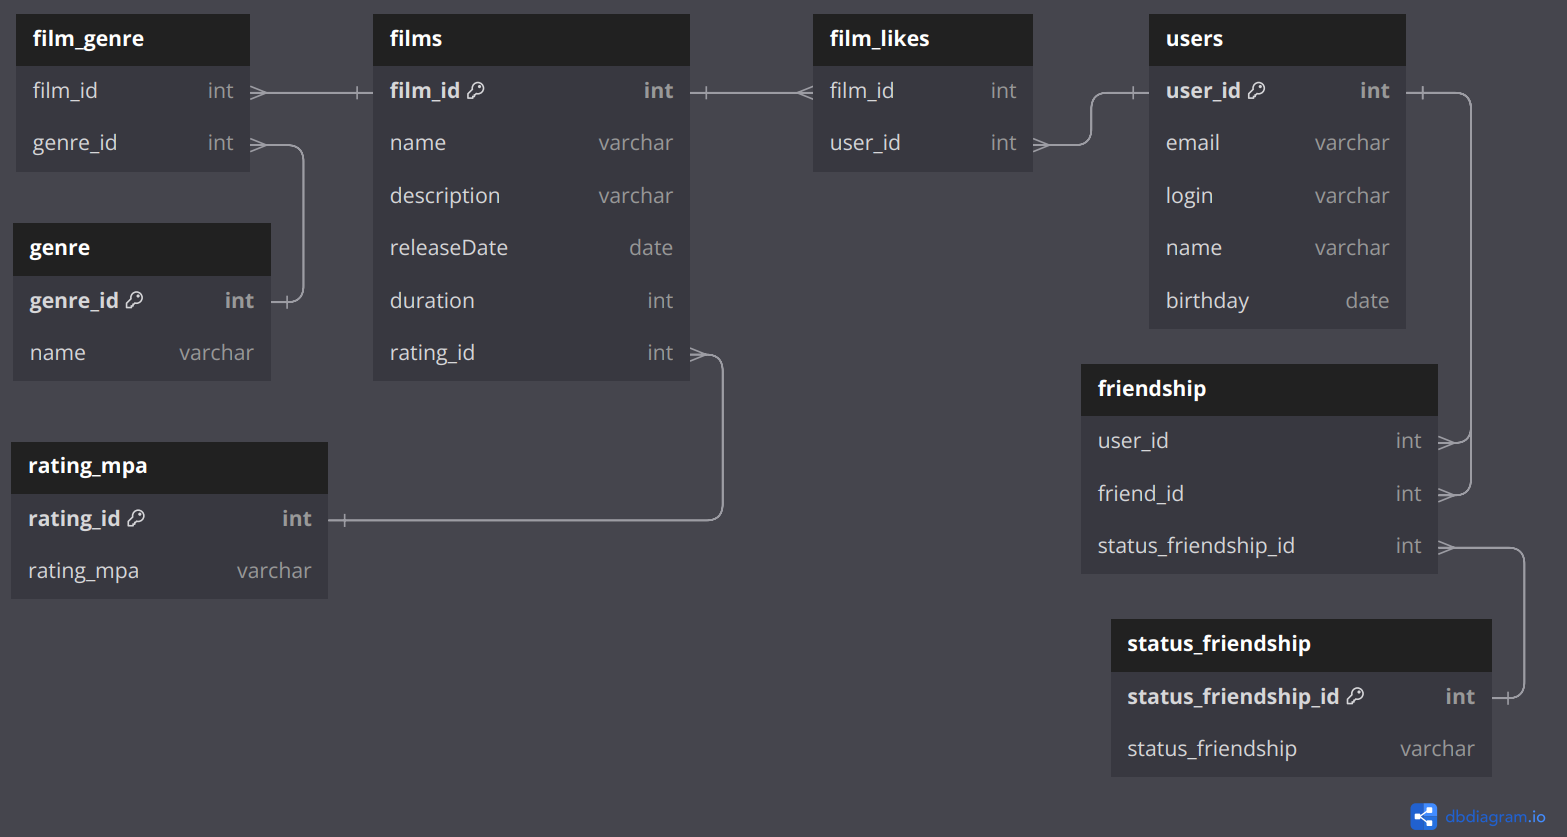
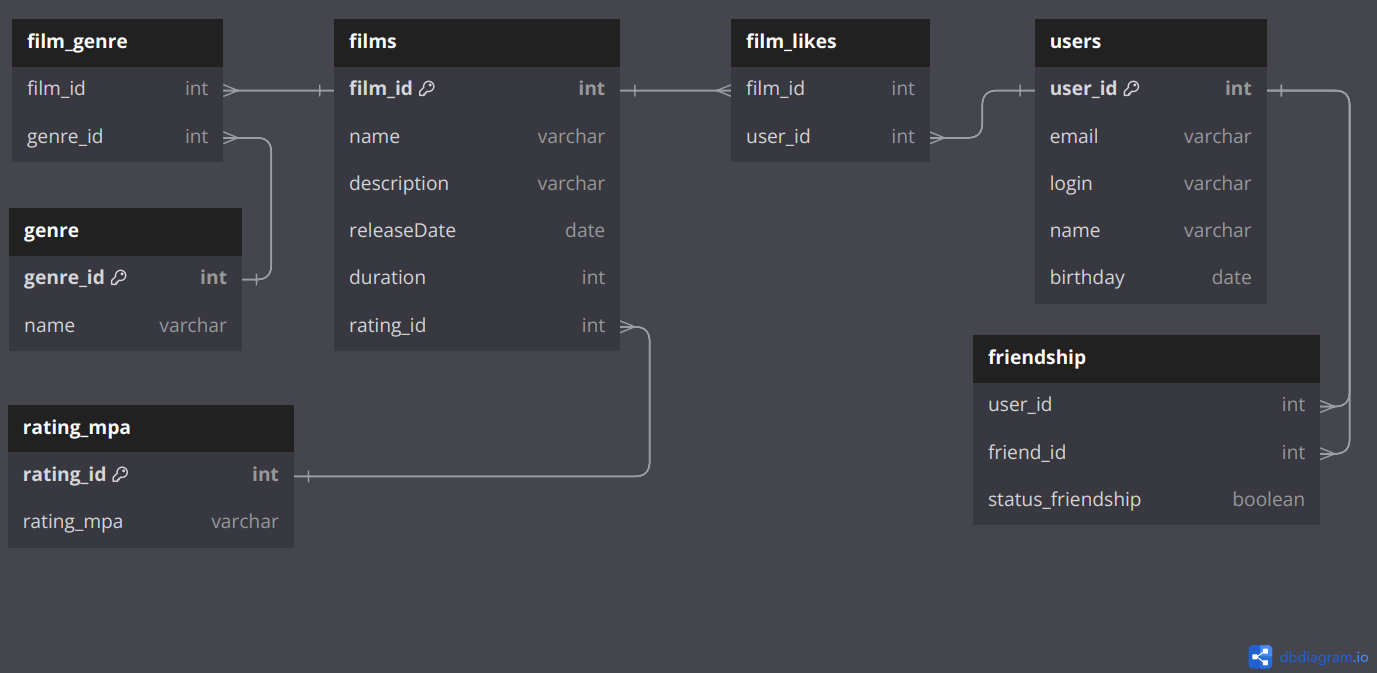
убрала таблицу friendship_status, статус теперь true/false

diff --git a/README.md b/README.md
@@ -29,8 +29,7 @@ SELECT u.name AS friend_name,
        sf.status_friendship
 FROM friendship f
 LEFT JOIN users u ON f.friend_id = u.user_id
-LEFT JOIN status_friendship sf ON f.status_friendship_id = sf.status_friendship_id
-WHERE f.user_id=1
+WHERE f.user_id=1 and f.status_friendship=true
 
 ```
 </details>
